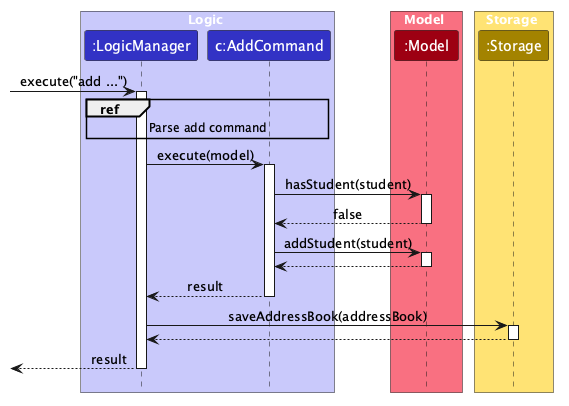
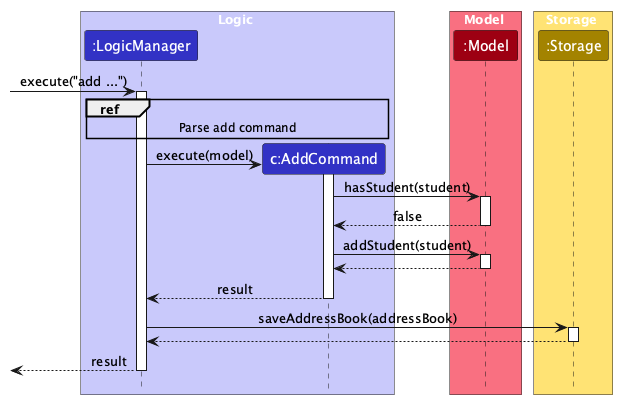
Clarify add-command creation and parser lifelines
The add sequence diagram showed c:AddCommand existing before the
parse reference that creates it. The parse diagram drew an X on
AddCommandParser whose lifeline kept going, and its two constructor
messages had no labels.

Start the AddCommand lifeline below the reference, render the parse
diagram with teoz so the lifeline ends at the X, and label the
constructors. Drop the DG note about the PlantUML limitation, which
no longer applies.

Changed region(s): [[0.0, 0.0296, 0.9859, 0.9754], [0.7469, 0.8867, 0.7768, 0.9458], [0.7469, 0.3251, 0.7768, 0.3842]]

diff --git a/docs/DeveloperGuide.md b/docs/DeveloperGuide.md
@@ -98,7 +98,9 @@ Here's a (partial) class diagram of the `Logic` component:
 
 The sequence diagram below shows the interactions within the `Logic` component, taking the `execute("add ...")` API call as an example. `Model` and `Storage` are treated as black boxes.
 
-<img src="images/AddSequenceDiagram.png" width="570" />
+<img src="images/AddSequenceDiagram.png" width="600" />
+
+The `Parse add command` reference creates `c`, so its lifeline starts below that frame.
 
 How the `Logic` component works:
 
@@ -111,10 +113,7 @@ Deletions differ: `LogicManager` handles their preview and confirmation itself, 
 
 The sequence diagram below shows how the `add` command is parsed:
 
-<img src="images/ParseAddCommandSequenceDiagram.png" width="600" />
-
-<div markdown="span" class="alert alert-info">:information_source: **Note:** The lifeline for `AddCommandParser` should end at the destroy marker (X), but due to a limitation of PlantUML, it continues to the end of the diagram.
-</div>
+<img src="images/ParseAddCommandSequenceDiagram.png" width="740" />
 
 The following partial class diagram expands the parser classes, using `AddCommandParser` as a representative example. `AddCommandParser` uses `ParserUtil` to tokenize the student fields into an `ArgumentMultimap`, with `CliSyntax` defining the `Prefix` values (such as `n/` and `p/`) that identify each field. It then validates the values and constructs an `AddCommand`.
 
